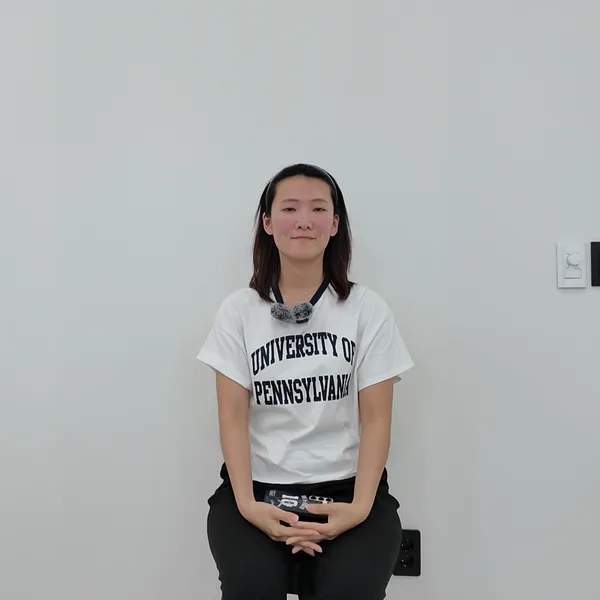
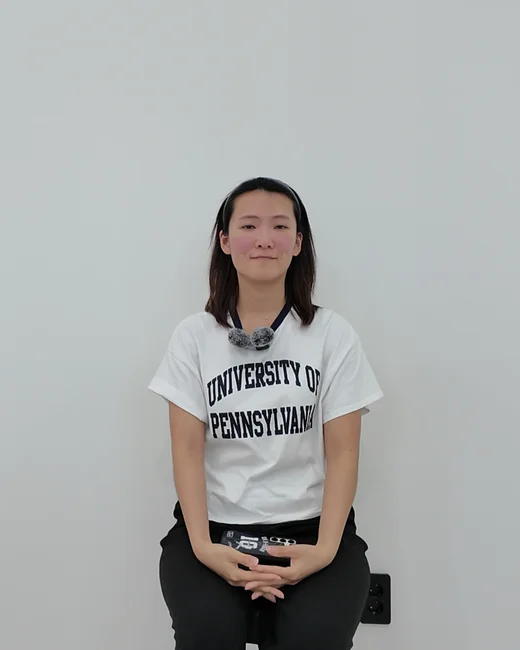
fix(home): tighter Apgujeong thumb in left column; bigger patient portraits
- Why Apgujeong: previous full-width hero was visually heavier than
  the section warranted. Moved into the left column directly under
  the "Why Apgujeong" h3 as a max-w-[14rem] aspect-[3/2] thumbnail
  with a soft border and shadow. The right column keeps its
  paragraph + CTA at the original visual weight.
- Patient interview rail: avatars were too small to read as people
  (w-20 h-20 circles with overlap looked like a generic team-page
  cluster). Switched to portrait cards — w-28 h-36 mobile, scaling
  up to w-40 h-48 on large viewports — rounded-2xl, no overlap,
  responsive flex-wrap. Photos re-cropped to 4:5 portrait
  (520×650 webp, smart-attention crop) so faces fill the frame.

Changed region(s): [[0.2769, 0.27, 0.7692, 1.0], [0.9846, 0.39, 1.0, 0.48], [0.4615, 0.99, 0.4923, 1.0]]

diff --git a/scripts/move-apgujeong-photo.js b/scripts/move-apgujeong-photo.js
@@ -1,0 +1,73 @@
+#!/usr/bin/env node
+// Move the Apgujeong Station photo from a full-width row below the
+// Why-Apgujeong grid into a small thumbnail inside the left column,
+// directly beneath the "Why Apgujeong" h3 title. Idempotent.
+
+const fs = require('fs');
+const path = require('path');
+const glob = require('glob');
+
+const files = glob.sync(
+  path.join(__dirname, '..', 'src/fragments/*/index.html')
+);
+
+const ALT_BY_LOCALE = {
+  en: 'Apgujeong Station — closest Seoul Metro Line 3 stop to Tune Clinic',
+  ko: '압구정역 — 튠클리닉에서 가장 가까운 서울 지하철 3호선 역',
+  ja: '狎鴎亭駅 — チューンクリニック最寄りの地下鉄3号線駅',
+  zh: '狎鸥亭站 — 距离 Tune Clinic 最近的首尔地铁 3 号线车站',
+  th: 'สถานีอัพกูจอง — สถานีรถไฟใต้ดินสาย 3 ที่ใกล้ Tune Clinic ที่สุด',
+  de: 'Station Apgujeong — die Tune Clinic am nächsten gelegene Station der Seouler U-Bahn-Linie 3',
+  fr: 'Station Apgujeong — la station la plus proche de Tune Clinic sur la ligne 3 du métro de Séoul',
+  ru: 'Станция Апкуджон — ближайшая к Tune Clinic станция 3-й линии сеульского метро',
+  vi: 'Ga Apgujeong — ga gần Tune Clinic nhất trên tuyến tàu điện ngầm số 3 Seoul',
+};
+
+function localeFromPath(p) {
+  const m = p.match(/\/fragments\/([a-z-]+)\/index\.html$/);
+  return m ? m[1] : 'en';
+}
+
+// 1) Strip the full-width insert I added in the previous commit.
+//    Pattern is the exact block produced by inject-apgujeong-photo.js,
+//    surrounded by the inner-grid close + container close I shoved
+//    around it.
+const FULL_WIDTH_BLOCK_RE = new RegExp(
+  '\\n            <div class="mt-10 max-w-3xl mx-auto rounded-2xl overflow-hidden shadow-sm">\\n' +
+  '                <img src="/apgujeong-station\\.webp" alt="[^"]+" class="w-full h-auto block" loading="lazy">\\n' +
+  '            </div>\\n'
+);
+
+// 2) Insert thumbnail under the Why-Apgujeong h3 inside the LEFT
+//    column of the grid. Anchor: the h3 line itself, which is stable
+//    across locales (only the visible title text varies).
+const H3_RE = /(<h3 class="text-2xl md:text-3xl font-serif text-slate-900 mt-2 leading-tight">[^<]+<\/h3>)/;
+
+function thumbBlock(locale) {
+  const alt = ALT_BY_LOCALE[locale] || ALT_BY_LOCALE.en;
+  return `$1
+                    <img src="/apgujeong-station.webp" alt="${alt}" loading="lazy" class="mt-5 w-full max-w-[14rem] aspect-[3/2] object-cover rounded-lg shadow-sm border border-slate-200">`;
+}
+
+let touched = 0, skipped = 0;
+
+for (const f of files) {
+  let src = fs.readFileSync(f, 'utf8');
+  const before = src;
+
+  // Remove old position if present.
+  src = src.replace(FULL_WIDTH_BLOCK_RE, '\n');
+
+  // Add thumbnail in new position if not already there. Detect previous
+  // insert by checking for the new class signature.
+  if (!src.includes('aspect-[3/2] object-cover rounded-lg shadow-sm border border-slate-200">')) {
+    src = src.replace(H3_RE, thumbBlock(localeFromPath(f)));
+  }
+
+  if (src === before) { skipped++; continue; }
+  fs.writeFileSync(f, src);
+  console.log(`✓ ${path.relative(process.cwd(), f)}`);
+  touched++;
+}
+
+console.log(`\n${touched} updated, ${skipped} unchanged.`);

diff --git a/src/fragments/th/index.html b/src/fragments/th/index.html
@@ -127,6 +127,7 @@
                 <div>
                     <span class="text-gold uppercase tracking-widest text-[11px] font-bold">ทำเลที่ตั้ง</span>
                     <h3 class="text-2xl md:text-3xl font-serif text-slate-900 mt-2 leading-tight">ทำไมต้องอับกูจอง</h3>
+                    <img src="/apgujeong-station.webp" alt="สถานีอัพกูจอง — สถานีรถไฟใต้ดินสาย 3 ที่ใกล้ Tune Clinic ที่สุด" loading="lazy" class="mt-5 w-full max-w-[14rem] aspect-[3/2] object-cover rounded-lg shadow-sm border border-slate-200">
                 </div>
                 <div class="md:col-span-2">
                     <p class="text-slate-600 leading-relaxed">อุตสาหกรรมเวชศาสตร์ความงามของเกาหลีกระจุกตัวอยู่ในกรุงโซลเป็นส่วนใหญ่ และย่านอับกูจอง-คังนัมถือเป็นแหล่งคลินิกความงามหลักของประเทศ Tune Clinic เปิดให้บริการที่ที่อยู่อับกูจองเดิมมาเป็นเวลาหลายปี &mdash; ค้นหาง่าย เดินทางสะดวก กลับมาตรวจซ้ำได้สบาย</p>
@@ -135,9 +136,6 @@
                         <i class="fas fa-arrow-right text-xs"></i>
                     </a>
                 </div>
-            </div>
-            <div class="mt-10 max-w-3xl mx-auto rounded-2xl overflow-hidden shadow-sm">
-                <img src="/apgujeong-station.webp" alt="ป้ายชานชาลาสถานีอัพกูจอง — สถานีรถไฟใต้ดินสาย 3 ที่ใกล้ Tune Clinic ที่สุด" class="w-full h-auto block" loading="lazy">
             </div>
         </div>
     </section>

diff --git a/src/fragments/ru/index.html b/src/fragments/ru/index.html
@@ -127,6 +127,7 @@
                 <div>
                     <span class="text-gold uppercase tracking-widest text-[11px] font-bold">Локация</span>
                     <h3 class="text-2xl md:text-3xl font-serif text-slate-900 mt-2 leading-tight">Почему Апкуджон</h3>
+                    <img src="/apgujeong-station.webp" alt="Станция Апкуджон — ближайшая к Tune Clinic станция 3-й линии сеульского метро" loading="lazy" class="mt-5 w-full max-w-[14rem] aspect-[3/2] object-cover rounded-lg shadow-sm border border-slate-200">
                 </div>
                 <div class="md:col-span-2">
                     <p class="text-slate-600 leading-relaxed">Большая часть корейской эстетической медицины сосредоточена в Сеуле, а район Апкуджон-Каннам признан главным коридором эстетической медицины страны. Tune Clinic уже много лет работает по одному и тому же адресу в Апкуджоне &mdash; легко найти и удобно возвращаться на повторный визит.</p>
@@ -135,9 +136,6 @@
                         <i class="fas fa-arrow-right text-xs"></i>
                     </a>
                 </div>
-            </div>
-            <div class="mt-10 max-w-3xl mx-auto rounded-2xl overflow-hidden shadow-sm">
-                <img src="/apgujeong-station.webp" alt="Платформенный указатель станции Апкуджон — ближайшая к Tune Clinic станция 3-й линии сеульского метро" class="w-full h-auto block" loading="lazy">
             </div>
         </div>
     </section>

diff --git a/src/fragments/ja/index.html b/src/fragments/ja/index.html
@@ -127,6 +127,7 @@
                 <div>
                     <span class="text-gold uppercase tracking-widest text-[11px] font-bold">Location</span>
                     <h3 class="text-2xl md:text-3xl font-serif text-slate-900 mt-2 leading-tight">なぜ狎鴎亭(アックジョン)なのか</h3>
+                    <img src="/apgujeong-station.webp" alt="狎鴎亭駅 — チューンクリニック最寄りの地下鉄3号線駅" loading="lazy" class="mt-5 w-full max-w-[14rem] aspect-[3/2] object-cover rounded-lg shadow-sm border border-slate-200">
                 </div>
                 <div class="md:col-span-2">
                     <p class="text-slate-600 leading-relaxed">韓国の美容医療クリニックの大部分はソウルに集中しており、その中でも狎鴎亭・江南エリアは国内における代表的な美容医療の中心地です。Tune Clinicは同じ狎鴎亭の住所で長年診療を続けており、初めての方も再訪の方もアクセスしやすい立地です。</p>
@@ -135,9 +136,6 @@
                         <i class="fas fa-arrow-right text-xs"></i>
                     </a>
                 </div>
-            </div>
-            <div class="mt-10 max-w-3xl mx-auto rounded-2xl overflow-hidden shadow-sm">
-                <img src="/apgujeong-station.webp" alt="狎鴎亭駅のホーム案内板 — チューンクリニックから最も近い地下鉄3号線の駅" class="w-full h-auto block" loading="lazy">
             </div>
         </div>
     </section>

diff --git a/src/fragments/ko/index.html b/src/fragments/ko/index.html
@@ -127,6 +127,7 @@
                 <div>
                     <span class="text-gold uppercase tracking-widest text-[11px] font-bold">Location</span>
                     <h3 class="text-2xl md:text-3xl font-serif text-slate-900 mt-2 leading-tight">왜 압구정인가</h3>
+                    <img src="/apgujeong-station.webp" alt="압구정역 — 튠클리닉에서 가장 가까운 서울 지하철 3호선 역" loading="lazy" class="mt-5 w-full max-w-[14rem] aspect-[3/2] object-cover rounded-lg shadow-sm border border-slate-200">
                 </div>
                 <div class="md:col-span-2">
                     <p class="text-slate-600 leading-relaxed">한국 미용 의료의 대부분은 서울에 집중되어 있으며, 그중 압구정·강남은 국내 미용 의료의 대표적인 중심지로 자리 잡고 있습니다. 튠의원은 동일한 압구정 주소에서 수년간 진료를 이어오고 있어, 처음 찾으시는 분도 재방문하시는 분도 편하게 오실 수 있습니다.</p>
@@ -135,9 +136,6 @@
                         <i class="fas fa-arrow-right text-xs"></i>
                     </a>
                 </div>
-            </div>
-            <div class="mt-10 max-w-3xl mx-auto rounded-2xl overflow-hidden shadow-sm">
-                <img src="/apgujeong-station.webp" alt="압구정역 승강장 안내판 — 튠클리닉에서 가장 가까운 서울 지하철 3호선 역" class="w-full h-auto block" loading="lazy">
             </div>
         </div>
     </section>

diff --git a/src/fragments/vi/index.html b/src/fragments/vi/index.html
@@ -127,6 +127,7 @@
                 <div>
                     <span class="text-gold uppercase tracking-widest text-[11px] font-bold">Vị trí</span>
                     <h3 class="text-2xl md:text-3xl font-serif text-slate-900 mt-2 leading-tight">Tại sao là Apgujeong</h3>
+                    <img src="/apgujeong-station.webp" alt="Ga Apgujeong — ga gần Tune Clinic nhất trên tuyến tàu điện ngầm số 3 Seoul" loading="lazy" class="mt-5 w-full max-w-[14rem] aspect-[3/2] object-cover rounded-lg shadow-sm border border-slate-200">
                 </div>
                 <div class="md:col-span-2">
                     <p class="text-slate-600 leading-relaxed">Phần lớn ngành y tế thẩm mỹ Hàn Quốc tập trung tại Seoul, trong đó khu vực Apgujeong-Gangnam được xem là trung tâm thẩm mỹ chính của cả nước. Tune Clinic đã hoạt động tại cùng một địa chỉ ở Apgujeong trong nhiều năm &mdash; dễ tìm, dễ quay lại tái khám.</p>
@@ -135,9 +136,6 @@
                         <i class="fas fa-arrow-right text-xs"></i>
                     </a>
                 </div>
-            </div>
-            <div class="mt-10 max-w-3xl mx-auto rounded-2xl overflow-hidden shadow-sm">
-                <img src="/apgujeong-station.webp" alt="Biển báo sân ga Apgujeong — ga gần Tune Clinic nhất trên tuyến tàu điện ngầm số 3 Seoul" class="w-full h-auto block" loading="lazy">
             </div>
         </div>
     </section>

diff --git a/src/fragments/de/index.html b/src/fragments/de/index.html
@@ -127,6 +127,7 @@
                 <div>
                     <span class="text-gold uppercase tracking-widest text-[11px] font-bold">Standort</span>
                     <h3 class="text-2xl md:text-3xl font-serif text-slate-900 mt-2 leading-tight">Warum Apgujeong</h3>
+                    <img src="/apgujeong-station.webp" alt="Station Apgujeong — die Tune Clinic am nächsten gelegene Station der Seouler U-Bahn-Linie 3" loading="lazy" class="mt-5 w-full max-w-[14rem] aspect-[3/2] object-cover rounded-lg shadow-sm border border-slate-200">
                 </div>
                 <div class="md:col-span-2">
                     <p class="text-slate-600 leading-relaxed">Der Großteil der koreanischen Schönheitsmedizin ist in Seoul konzentriert, und Apgujeong-Gangnam gilt als das wichtigste Korridor-Viertel für ästhetische Medizin im Land. Die Tune Clinic praktiziert seit Jahren an derselben Apgujeong-Adresse &mdash; leicht zu finden und unkompliziert wiederzubesuchen.</p>
@@ -135,9 +136,6 @@
                         <i class="fas fa-arrow-right text-xs"></i>
                     </a>
                 </div>
-            </div>
-            <div class="mt-10 max-w-3xl mx-auto rounded-2xl overflow-hidden shadow-sm">
-                <img src="/apgujeong-station.webp" alt="Bahnsteigschild der Station Apgujeong — die nächstgelegene Station der Seouler U-Bahn Linie 3 zur Tune Clinic" class="w-full h-auto block" loading="lazy">
             </div>
         </div>
     </section>

diff --git a/src/fragments/fr/index.html b/src/fragments/fr/index.html
@@ -127,6 +127,7 @@
                 <div>
                     <span class="text-gold uppercase tracking-widest text-[11px] font-bold">Emplacement</span>
                     <h3 class="text-2xl md:text-3xl font-serif text-slate-900 mt-2 leading-tight">Pourquoi Apgujeong</h3>
+                    <img src="/apgujeong-station.webp" alt="Station Apgujeong — la station la plus proche de Tune Clinic sur la ligne 3 du métro de Séoul" loading="lazy" class="mt-5 w-full max-w-[14rem] aspect-[3/2] object-cover rounded-lg shadow-sm border border-slate-200">
                 </div>
                 <div class="md:col-span-2">
                     <p class="text-slate-600 leading-relaxed">L'essentiel de la médecine esthétique coréenne est concentré à Séoul, et le quartier Apgujeong-Gangnam constitue le principal pôle esthétique du pays. Tune Clinic exerce depuis des années à la même adresse à Apgujeong &mdash; facile à trouver et à revisiter.</p>
@@ -135,9 +136,6 @@
                         <i class="fas fa-arrow-right text-xs"></i>
                     </a>
                 </div>
-            </div>
-            <div class="mt-10 max-w-3xl mx-auto rounded-2xl overflow-hidden shadow-sm">
-                <img src="/apgujeong-station.webp" alt="Panneau du quai de la station Apgujeong — la station de la ligne 3 du métro de Séoul la plus proche de Tune Clinic" class="w-full h-auto block" loading="lazy">
             </div>
         </div>
     </section>

diff --git a/src/fragments/en/index.html b/src/fragments/en/index.html
@@ -127,6 +127,7 @@
                 <div>
                     <span class="text-gold uppercase tracking-widest text-[11px] font-bold">Location</span>
                     <h3 class="text-2xl md:text-3xl font-serif text-slate-900 mt-2 leading-tight">Why Apgujeong</h3>
+                    <img src="/apgujeong-station.webp" alt="Apgujeong Station — closest Seoul Metro Line 3 stop to Tune Clinic" loading="lazy" class="mt-5 w-full max-w-[14rem] aspect-[3/2] object-cover rounded-lg shadow-sm border border-slate-200">
                 </div>
                 <div class="md:col-span-2">
                     <p class="text-slate-600 leading-relaxed">Seoul concentrates the vast majority of Korea's cosmetic-medicine clinics, and Apgujeong-Gangnam is the country's primary aesthetic-medicine corridor. Tune Clinic has been operating at the same Apgujeong address for years &mdash; easy to find, easy to revisit.</p>
@@ -135,9 +136,6 @@
                         <i class="fas fa-arrow-right text-xs"></i>
                     </a>
                 </div>
-            </div>
-            <div class="mt-10 max-w-3xl mx-auto rounded-2xl overflow-hidden shadow-sm">
-                <img src="/apgujeong-station.webp" alt="Apgujeong Station platform sign — the closest Seoul Metro Line 3 stop to Tune Clinic" class="w-full h-auto block" loading="lazy">
             </div>
         </div>
     </section>

diff --git a/src/fragments/zh/index.html b/src/fragments/zh/index.html
@@ -127,6 +127,7 @@
                 <div>
                     <span class="text-gold uppercase tracking-widest text-[11px] font-bold">Location</span>
                     <h3 class="text-2xl md:text-3xl font-serif text-slate-900 mt-2 leading-tight">为什么选择狎鸥亭</h3>
+                    <img src="/apgujeong-station.webp" alt="狎鸥亭站 — 距离 Tune Clinic 最近的首尔地铁 3 号线车站" loading="lazy" class="mt-5 w-full max-w-[14rem] aspect-[3/2] object-cover rounded-lg shadow-sm border border-slate-200">
                 </div>
                 <div class="md:col-span-2">
                     <p class="text-slate-600 leading-relaxed">韩国的美容医疗机构高度集中于首尔，其中狎鸥亭—江南区域是韩国主要的美容医疗聚集区。Tune Clinic 多年来在同一狎鸥亭地址持续运营，方便初次就诊与复诊。</p>
@@ -135,9 +136,6 @@
                         <i class="fas fa-arrow-right text-xs"></i>
                     </a>
                 </div>
-            </div>
-            <div class="mt-10 max-w-3xl mx-auto rounded-2xl overflow-hidden shadow-sm">
-                <img src="/apgujeong-station.webp" alt="狎鸥亭站站台指示牌 — 距离 Tune Clinic 最近的首尔地铁 3 号线车站" class="w-full h-auto block" loading="lazy">
             </div>
         </div>
     </section>

diff --git a/src/render/reviews-module.js b/src/render/reviews-module.js
@@ -100,13 +100,13 @@ const HOME_PATIENT_PHOTOS = [
 ];
 
 function renderHomePatientRail(variant) {
-  const ringCls = variant === "dark" ? "ring-white/10" : "ring-slate-200";
+  const borderCls = variant === "dark" ? "border-white/10" : "border-slate-200";
   const items = HOME_PATIENT_PHOTOS.map((p, i) => `
-        <div class="shrink-0 w-20 h-20 md:w-24 md:h-24 rounded-full overflow-hidden ring-2 ${ringCls} shadow-sm" style="${i > 0 ? "margin-left:-0.75rem;" : ""}">
+        <div class="shrink-0 w-28 h-36 sm:w-32 sm:h-40 md:w-36 md:h-44 lg:w-40 lg:h-48 rounded-2xl overflow-hidden border ${borderCls} shadow-md">
           <img src="${p.file}" alt="${esc(p.alt)} ${i + 1}" loading="lazy" class="w-full h-full object-cover">
         </div>`).join("");
   return `
-    <div class="flex justify-center items-center mb-10 md:mb-12">
+    <div class="flex flex-wrap justify-center gap-3 md:gap-4 mb-10 md:mb-12">
       ${items}
     </div>`;
 }
